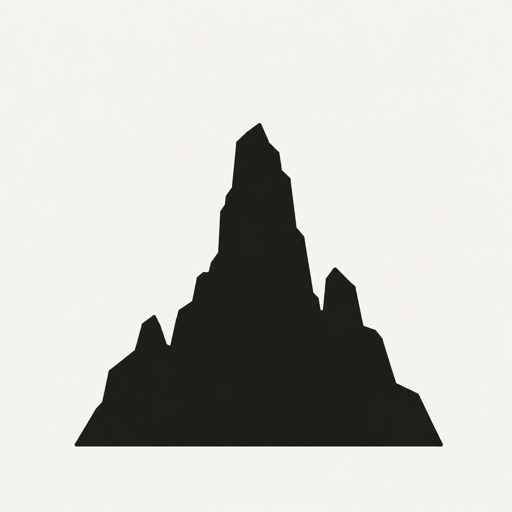
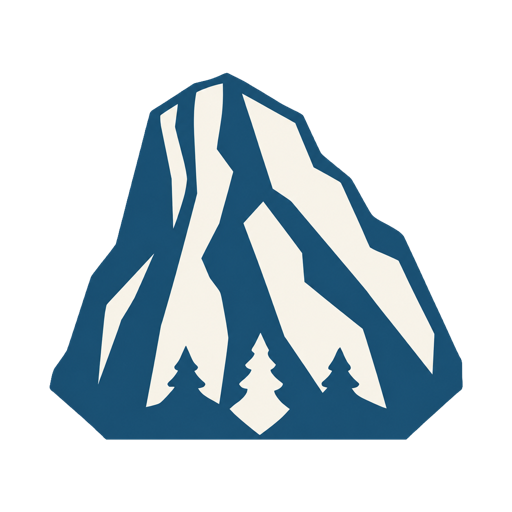
added crew/gear-check report

diff --git a/src/app/_og/generateOgImage.tsx b/src/app/_og/generateOgImage.tsx
@@ -1,0 +1,105 @@
+import fs from "fs";
+import path from "path";
+import { ImageResponse } from "next/og";
+
+function getBlankBase64(): string {
+  const filePath = path.join(process.cwd(), "src/app/_og/blank.png");
+  const buf = fs.readFileSync(filePath);
+  return `data:image/png;base64,${buf.toString("base64")}`;
+}
+
+export function generateOgImage({
+  sectionLabel,
+  title,
+  subtitle,
+}: {
+  section: "home" | "trip" | "pack" | "crew" | "reference";
+  sectionLabel: string;
+  title: string;
+  subtitle?: string;
+}): ImageResponse {
+  const bgSrc = getBlankBase64();
+
+  return new ImageResponse(
+    (
+      <div
+        style={{
+          width: "100%",
+          height: "100%",
+          display: "flex",
+          position: "relative",
+        }}
+      >
+        {/* Topographic background */}
+        {/* eslint-disable-next-line @next/next/no-img-element */}
+        <img
+          src={bgSrc}
+          style={{ position: "absolute", inset: 0, width: "100%", height: "100%", objectFit: "cover" }}
+          alt=""
+        />
+
+        {/* Text overlay — left half, vertically centered, above bottom branding */}
+        <div
+          style={{
+            position: "absolute",
+            top: 0,
+            left: 0,
+            bottom: 80,
+            width: "60%",
+            display: "flex",
+            flexDirection: "column",
+            justifyContent: "center",
+            padding: "0 0 0 64px",
+            gap: "0px",
+          }}
+        >
+          {/* Section eyebrow */}
+          <div
+            style={{
+              fontSize: "16px",
+              fontWeight: 600,
+              letterSpacing: "0.1em",
+              color: "#2d5a8a",
+              textTransform: "uppercase",
+              marginBottom: "18px",
+              fontFamily: "ui-monospace, monospace",
+            }}
+          >
+            {sectionLabel}
+          </div>
+
+          {/* Title */}
+          <div
+            style={{
+              fontSize: "72px",
+              fontWeight: 800,
+              color: "#1a2e44",
+              lineHeight: 1.05,
+              letterSpacing: "-0.02em",
+              marginBottom: subtitle ? "18px" : "0",
+              fontFamily: "system-ui, sans-serif",
+            }}
+          >
+            {title}
+          </div>
+
+          {/* Subtitle */}
+          {subtitle && (
+            <div
+              style={{
+                fontSize: "22px",
+                color: "#666666",
+                fontWeight: 400,
+                lineHeight: 1.4,
+                fontFamily: "system-ui, sans-serif",
+              }}
+            >
+              {subtitle}
+            </div>
+          )}
+        </div>
+      </div>
+    ),
+    { width: 1280, height: 500 },
+  );
+}

diff --git a/src/app/crew/duty/opengraph-image.tsx b/src/app/crew/duty/opengraph-image.tsx
@@ -1,0 +1,14 @@
+import { generateOgImage } from "../../_og/generateOgImage";
+
+export const alt = "Duty Roster — Tooth of Time Trek 12-23";
+export const size = { width: 1280, height: 500 };
+export const contentType = "image/png";
+
+export default function OgImage() {
+  return generateOgImage({
+    section: "crew",
+    sectionLabel: "MY CREW",
+    title: "Duty Roster",
+    subtitle: "Cook · cleanup · water · nav · bear bag",
+  });
+}

diff --git a/src/app/pack/food/opengraph-image.tsx b/src/app/pack/food/opengraph-image.tsx
@@ -1,0 +1,14 @@
+import { generateOgImage } from "../../_og/generateOgImage";
+
+export const alt = "Food & Water — Tooth of Time Trek 12-23";
+export const size = { width: 1280, height: 500 };
+export const contentType = "image/png";
+
+export default function OgImage() {
+  return generateOgImage({
+    section: "pack",
+    sectionLabel: "MY PACK",
+    title: "Food & Water",
+    subtitle: "Resupply · dry camps · hydration",
+  });
+}

diff --git a/src/app/reference/altitude/opengraph-image.tsx b/src/app/reference/altitude/opengraph-image.tsx
@@ -1,0 +1,14 @@
+import { generateOgImage } from "../../_og/generateOgImage";
+
+export const alt = "Altitude & Safety — Tooth of Time Trek 12-23";
+export const size = { width: 1280, height: 500 };
+export const contentType = "image/png";
+
+export default function OgImage() {
+  return generateOgImage({
+    section: "reference",
+    sectionLabel: "REFERENCE",
+    title: "Altitude & Safety",
+    subtitle: "AMS symptoms · 12,441 ft peak · critical descents",
+  });
+}

diff --git a/src/app/reference/bear-bag/opengraph-image.tsx b/src/app/reference/bear-bag/opengraph-image.tsx
@@ -1,0 +1,14 @@
+import { generateOgImage } from "../../_og/generateOgImage";
+
+export const alt = "Bear Bag & Smellables — Tooth of Time Trek 12-23";
+export const size = { width: 1280, height: 500 };
+export const contentType = "image/png";
+
+export default function OgImage() {
+  return generateOgImage({
+    section: "reference",
+    sectionLabel: "REFERENCE",
+    title: "Bear Bag & Smellables",
+    subtitle: "Required hang list · backcountry protocol",
+  });
+}

diff --git a/src/app/reference/cooking/opengraph-image.tsx b/src/app/reference/cooking/opengraph-image.tsx
@@ -1,0 +1,14 @@
+import { generateOgImage } from "../../_og/generateOgImage";
+
+export const alt = "Cooking Reference — Tooth of Time Trek 12-23";
+export const size = { width: 1280, height: 500 };
+export const contentType = "image/png";
+
+export default function OgImage() {
+  return generateOgImage({
+    section: "reference",
+    sectionLabel: "REFERENCE",
+    title: "Cooking",
+    subtitle: "Hybrid cook system · 7-step method",
+  });
+}

diff --git a/src/app/reference/gear/opengraph-image.tsx b/src/app/reference/gear/opengraph-image.tsx
@@ -1,0 +1,14 @@
+import { generateOgImage } from "../../_og/generateOgImage";
+
+export const alt = "Gear Reference — Tooth of Time Trek 12-23";
+export const size = { width: 1280, height: 500 };
+export const contentType = "image/png";
+
+export default function OgImage() {
+  return generateOgImage({
+    section: "reference",
+    sectionLabel: "REFERENCE",
+    title: "Gear",
+    subtitle: "Crew gear · shelter · weight assignment",
+  });
+}